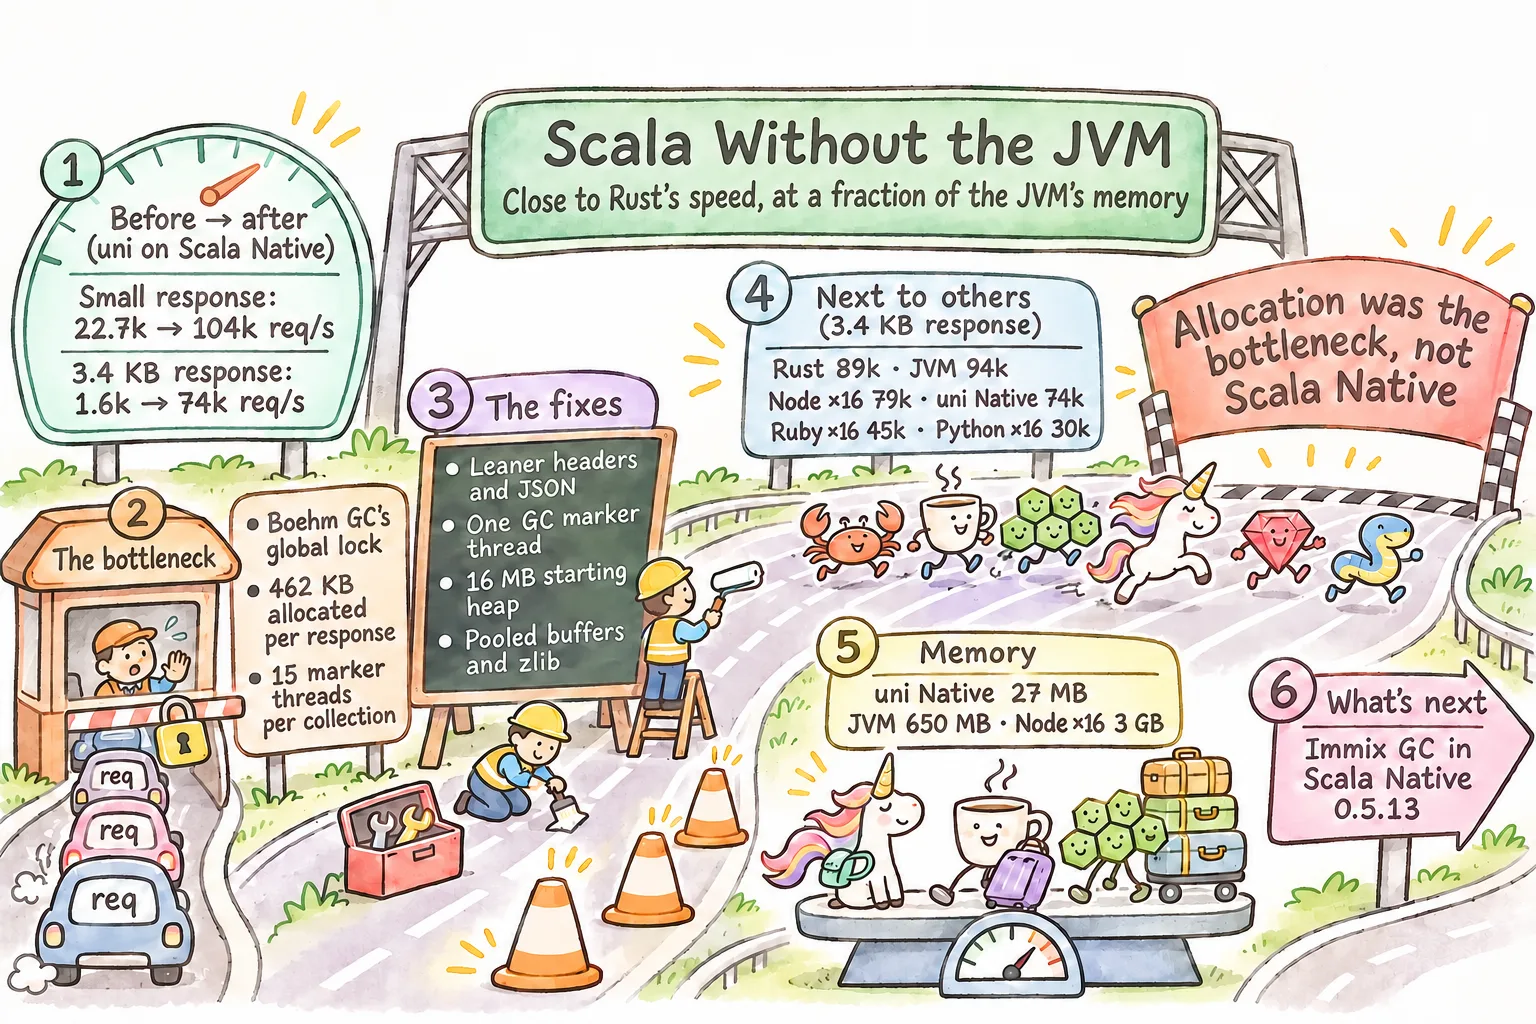
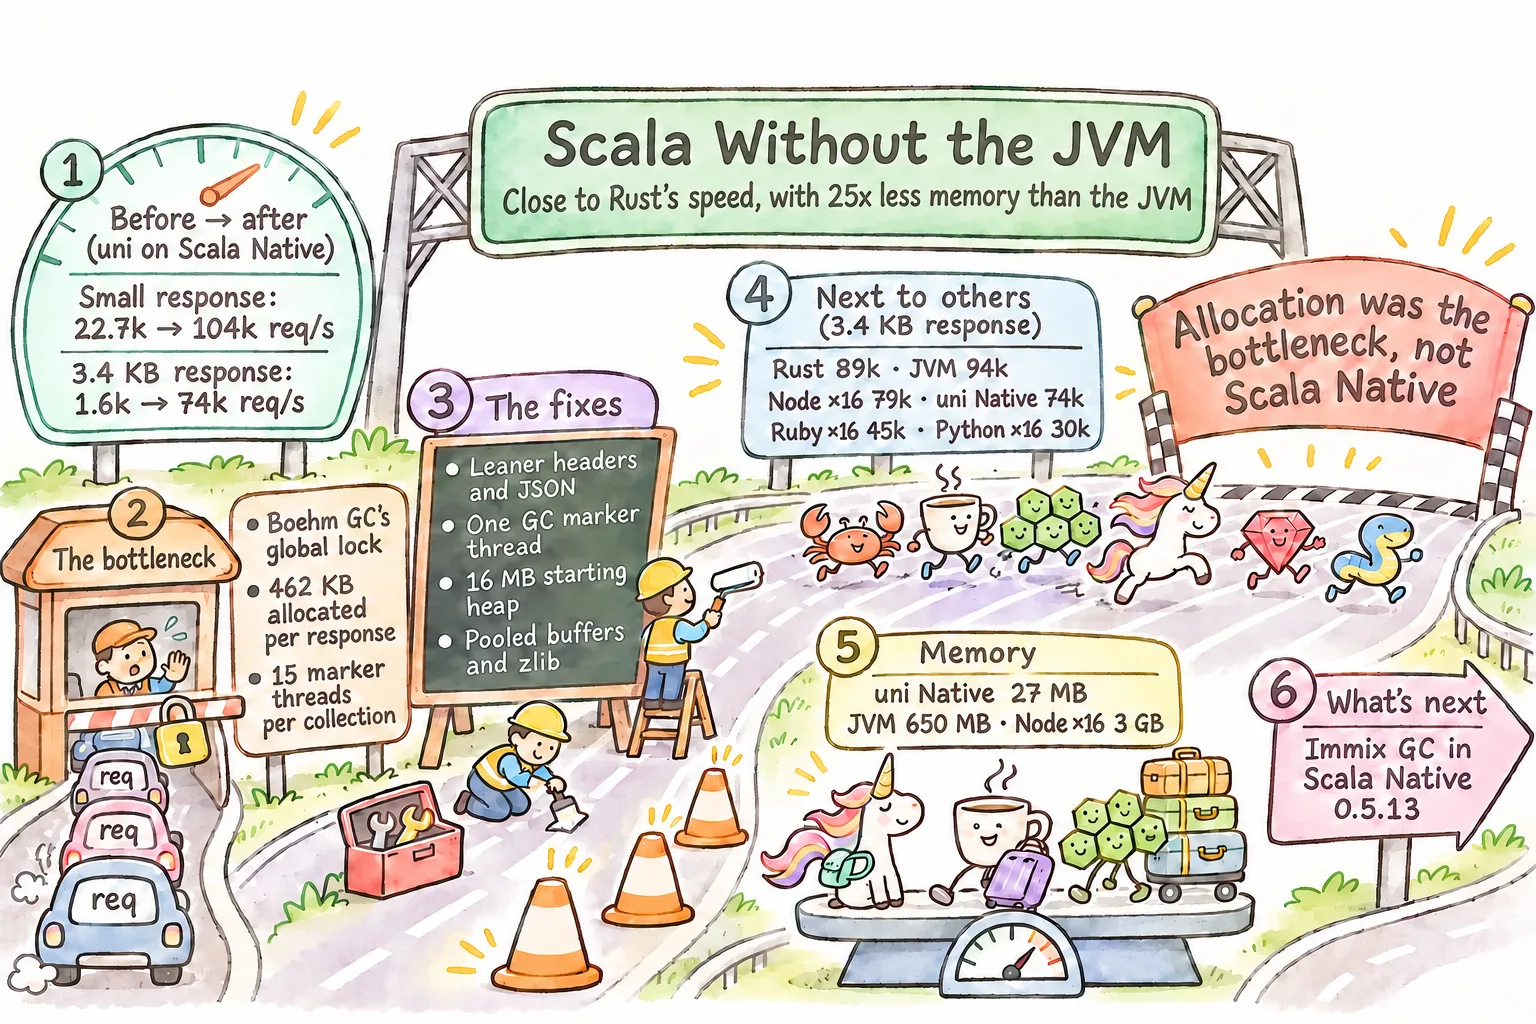
docs: Name the 25x memory saving in the Native server post's title

diff --git a/docs/blog/2026-11-19-native-server-performance.md b/docs/blog/2026-11-19-native-server-performance.md
@@ -1,12 +1,12 @@
 ---
-title: "Scala Without the JVM: Close to Rust's Speed, at a Fraction of the JVM's Memory"
+title: "Scala Without the JVM: Close to Rust's Speed, With 25x Less Memory Than the JVM"
 date: 2026-11-19
 author: Taro L. Saito
 description: "Scala Native compiles Scala to a native binary that runs without a JVM. Uni's HTTP server built this way comes close to Rust and the JVM in throughput, using about 25x less memory than the JVM. What was slow, what fixed it, and how it compares with the JVM, Node.js, Python, Ruby, and Rust."
 image: /blog/native-server-performance.png
 ---
 
-# Scala Without the JVM: Close to Rust's Speed, at a Fraction of the JVM's Memory
+# Scala Without the JVM: Close to Rust's Speed, With 25x Less Memory Than the JVM
 
 **Compiled with Scala Native, uni's HTTP server comes close to Rust and the JVM in throughput, while using about 25x less memory than the JVM.** Serving the same endpoint on the same machine, it reaches about 80% or more of the throughput of Rust with axum. It keeps pace with uni on the JVM on a small RPC response and reaches about 80% of it on a 3.4 KB one. It does this in 25–28 MB of memory, where the JVM build used 590–614 MB and 650 MB.
 
@@ -14,7 +14,7 @@ A day earlier, the native server was about 5x slower than the JVM on the small r
 
 The bigger point: you can write Scala without being tied to the JVM. The same uni code runs on the JVM when you want its peak throughput, and as a small native binary when you want low memory and nothing to install.
 
-![Scala Without the JVM: close to Rust's speed, at a fraction of the JVM's memory. A hand-drawn highway runs left to right under an overhead sign with that title. On the left, cars labelled "req" queue at one small toll booth with a padlock, beside a sign listing the bottleneck: Boehm GC's global lock, 462 KB allocated per response, and 15 marker threads per collection. A speedometer sign shows uni on Scala Native going from 22.7k to 104k req/s on a small response and from 1.6k to 74k req/s on a 3.4 KB one. In the middle, a road crew widens the road beside a chalkboard of fixes: leaner headers and JSON, one GC marker thread, a 16 MB starting heap, and pooled buffers and zlib. On the right, a unicorn races a crab, a coffee cup, green hexagons, a ruby, and a snake toward a finish banner reading "Allocation was the bottleneck, not Scala Native". Signs show the 3.4 KB results (Rust 89k, JVM 94k, Node ×16 79k, uni Native 74k, Ruby ×16 45k, Python ×16 30k), memory on a luggage scale (uni Native 27 MB, JVM 650 MB, Node ×16 3 GB), and what's next: Immix GC in Scala Native 0.5.13.](/blog/native-server-performance.webp)
+![Scala Without the JVM: close to Rust's speed, with 25x less memory than the JVM. A hand-drawn highway runs left to right under an overhead sign with that title. On the left, cars labelled "req" queue at one small toll booth with a padlock, beside a sign listing the bottleneck: Boehm GC's global lock, 462 KB allocated per response, and 15 marker threads per collection. A speedometer sign shows uni on Scala Native going from 22.7k to 104k req/s on a small response and from 1.6k to 74k req/s on a 3.4 KB one. In the middle, a road crew widens the road beside a chalkboard of fixes: leaner headers and JSON, one GC marker thread, a 16 MB starting heap, and pooled buffers and zlib. On the right, a unicorn races a crab, a coffee cup, green hexagons, a ruby, and a snake toward a finish banner reading "Allocation was the bottleneck, not Scala Native". Signs show the 3.4 KB results (Rust 89k, JVM 94k, Node ×16 79k, uni Native 74k, Ruby ×16 45k, Python ×16 30k), memory on a luggage scale (uni Native 27 MB, JVM 650 MB, Node ×16 3 GB), and what's next: Immix GC in Scala Native 0.5.13.](/blog/native-server-performance.webp)
 
 ## Scala, without the JVM
 
